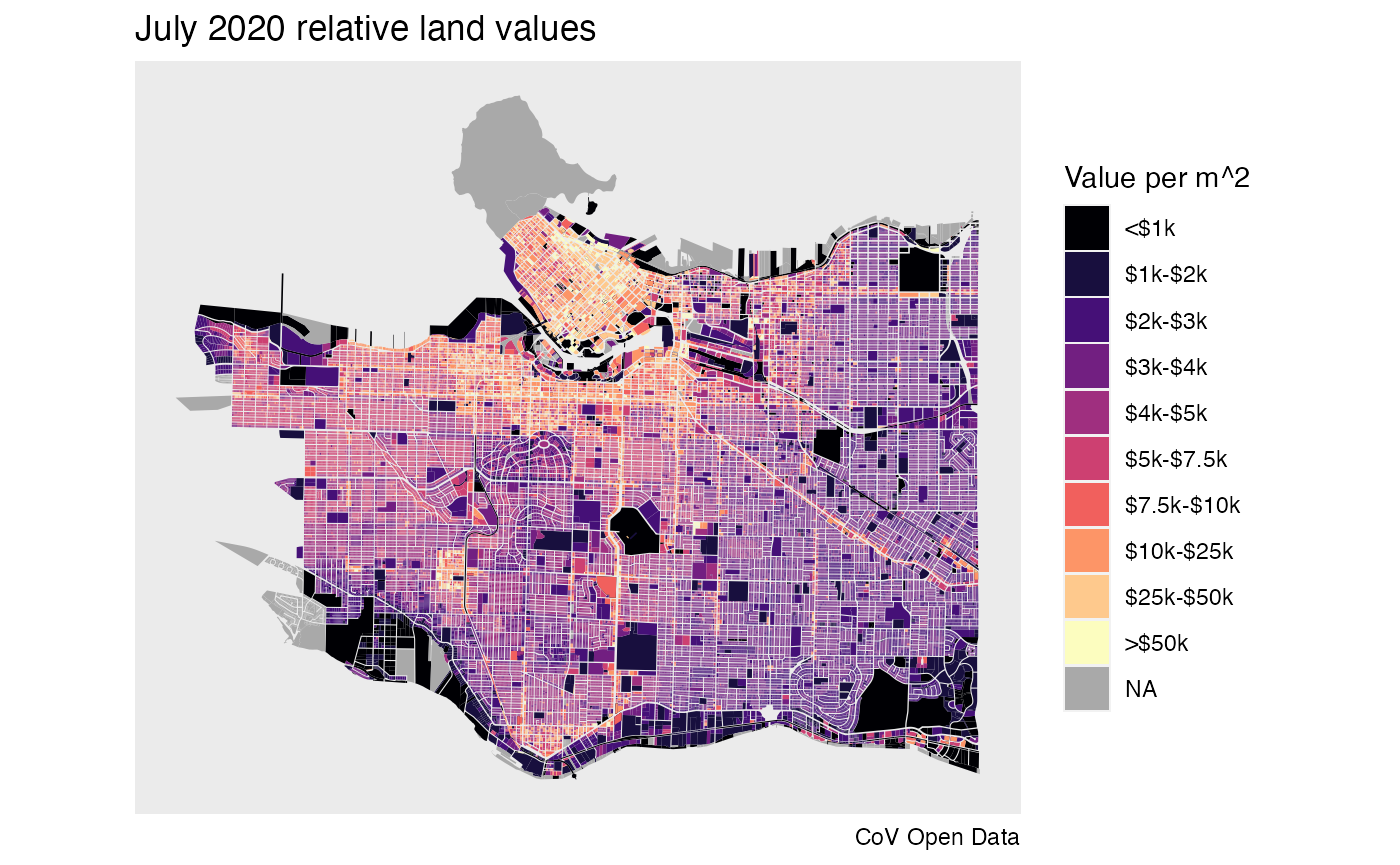
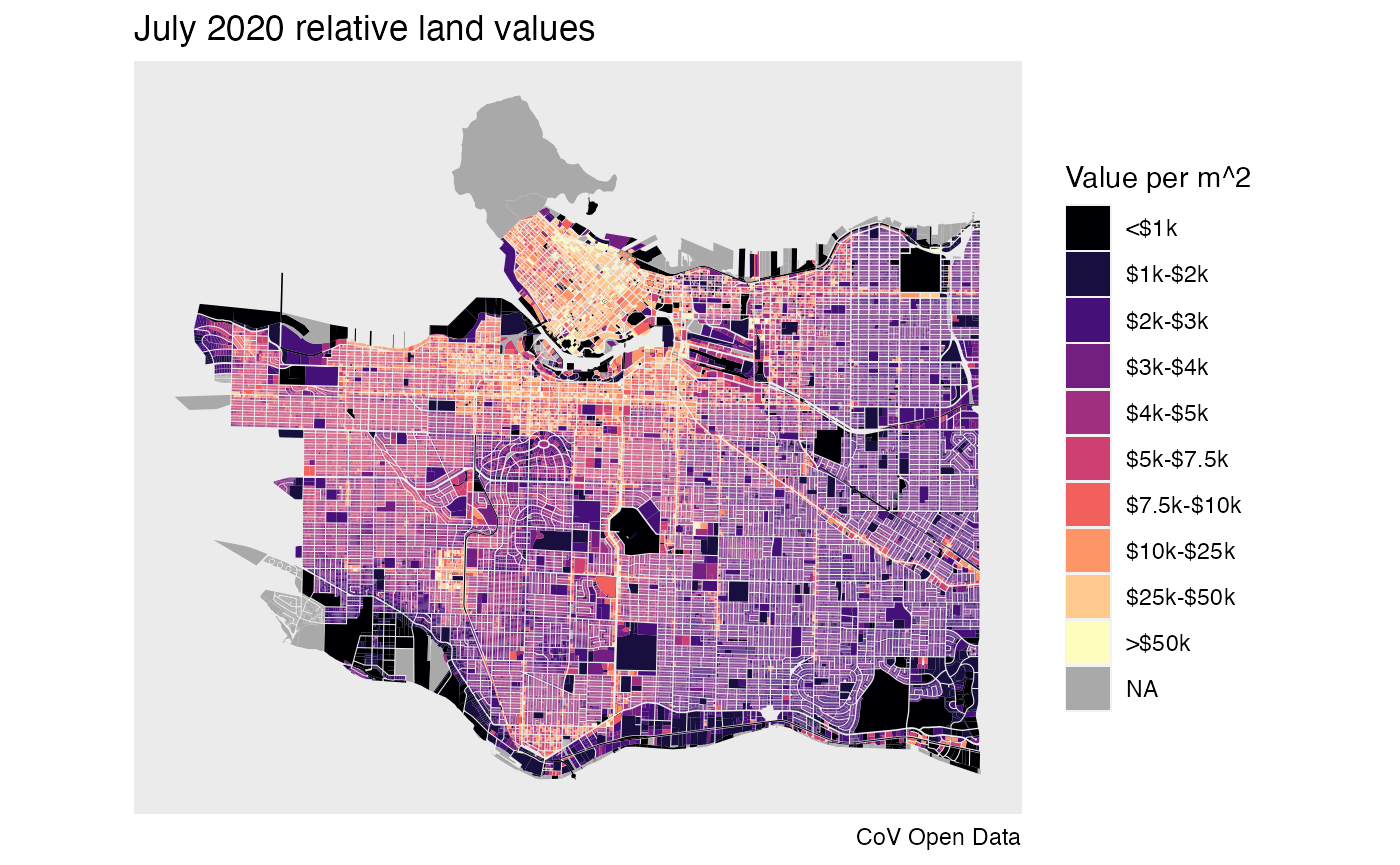
convert to non-spherical coordinartes in DEMO before doing spatial operations

diff --git a/docs/reference/get_cov_data.html b/docs/reference/get_cov_data.html
@@ -195,16 +195,16 @@ It accepts <a href='https://help.opendatasoft.com/apis/ods-search-v2/#where-clau
 </div><div class='output co'>#&gt; <span class='message'>Downloading data from CoV Open Data portal</span></div><div class='output co'>#&gt; <span style='color: #949494;'># A tibble: 7,010 x 8</span>
 #&gt;    block street  entrydate  bylaw section  status infractiontext           year 
 #&gt;    <span style='color: #949494; font-style: italic;'>&lt;int&gt;</span> <span style='color: #949494; font-style: italic;'>&lt;chr&gt;</span>   <span style='color: #949494; font-style: italic;'>&lt;date&gt;</span>     <span style='color: #949494; font-style: italic;'>&lt;int&gt;</span> <span style='color: #949494; font-style: italic;'>&lt;chr&gt;</span>    <span style='color: #949494; font-style: italic;'>&lt;chr&gt;</span>  <span style='color: #949494; font-style: italic;'>&lt;chr&gt;</span>                    <span style='color: #949494; font-style: italic;'>&lt;chr&gt;</span>
-#&gt; <span style='color: #BCBCBC;'> 1</span>  <span style='text-decoration: underline;'>1</span>100 ALBERN… 2018-11-01  <span style='text-decoration: underline;'>2</span>952 5(4)(a)… IS     PARK IN A METERED SPACE… 2018 
-#&gt; <span style='color: #BCBCBC;'> 2</span>  <span style='text-decoration: underline;'>1</span>100 ALBERN… 2018-11-27  <span style='text-decoration: underline;'>2</span>849 21.5     IS     STOP IN COMMERCIAL LOAD… 2018 
-#&gt; <span style='color: #BCBCBC;'> 3</span>  <span style='text-decoration: underline;'>1</span>100 ALBERN… 2018-01-28  <span style='text-decoration: underline;'>2</span>952 5(4)(a)… IS     PARK IN A METERED SPACE… 2018 
-#&gt; <span style='color: #BCBCBC;'> 4</span>  <span style='text-decoration: underline;'>1</span>100 ALBERN… 2018-08-21  <span style='text-decoration: underline;'>2</span>952 5(4)(a)… IS     PARK IN A METERED SPACE… 2018 
-#&gt; <span style='color: #BCBCBC;'> 5</span>  <span style='text-decoration: underline;'>1</span>100 ALBERN… 2018-11-03  <span style='text-decoration: underline;'>2</span>952 5(4)(a)… IS     PARK IN A METERED SPACE… 2018 
-#&gt; <span style='color: #BCBCBC;'> 6</span>  <span style='text-decoration: underline;'>1</span>100 ALBERN… 2018-11-03  <span style='text-decoration: underline;'>2</span>952 5(4)(a)… IS     PARK IN A METERED SPACE… 2018 
-#&gt; <span style='color: #BCBCBC;'> 7</span>  <span style='text-decoration: underline;'>1</span>100 ALBERN… 2018-11-06  <span style='text-decoration: underline;'>2</span>952 5(4)(a)… VA     PARK IN A METERED SPACE… 2018 
-#&gt; <span style='color: #BCBCBC;'> 8</span>  <span style='text-decoration: underline;'>1</span>100 ALBERN… 2018-11-06  <span style='text-decoration: underline;'>2</span>952 5(4)(a)… WR     PARK IN A METERED SPACE… 2018 
-#&gt; <span style='color: #BCBCBC;'> 9</span>  <span style='text-decoration: underline;'>1</span>100 ALBERN… 2018-11-06  <span style='text-decoration: underline;'>2</span>952 5(4)(a)… IS     PARK IN A METERED SPACE… 2018 
-#&gt; <span style='color: #BCBCBC;'>10</span>  <span style='text-decoration: underline;'>1</span>100 ALBERN… 2018-11-06  <span style='text-decoration: underline;'>2</span>952 5(4)(a)… IS     PARK IN A METERED SPACE… 2018 
+#&gt; <span style='color: #BCBCBC;'> 1</span>  <span style='text-decoration: underline;'>1</span>100 ALBERN… 2018-02-18  <span style='text-decoration: underline;'>2</span>952 5(4)(a)… IS     PARK IN A METERED SPACE… 2018 
+#&gt; <span style='color: #BCBCBC;'> 2</span>  <span style='text-decoration: underline;'>1</span>100 ALBERN… 2018-05-24  <span style='text-decoration: underline;'>2</span>952 5(4)(a)… IS     PARK IN A METERED SPACE… 2018 
+#&gt; <span style='color: #BCBCBC;'> 3</span>  <span style='text-decoration: underline;'>1</span>100 ALBERN… 2018-05-24  <span style='text-decoration: underline;'>2</span>952 5(4)(a)… IS     PARK IN A METERED SPACE… 2018 
+#&gt; <span style='color: #BCBCBC;'> 4</span>  <span style='text-decoration: underline;'>1</span>100 ALBERN… 2018-05-24  <span style='text-decoration: underline;'>2</span>952 5(4)(a)… IS     PARK IN A METERED SPACE… 2018 
+#&gt; <span style='color: #BCBCBC;'> 5</span>  <span style='text-decoration: underline;'>1</span>100 ALBERN… 2018-05-24  <span style='text-decoration: underline;'>2</span>952 5(4)(a)… IS     PARK IN A METERED SPACE… 2018 
+#&gt; <span style='color: #BCBCBC;'> 6</span>  <span style='text-decoration: underline;'>1</span>100 ALBERN… 2018-02-12  <span style='text-decoration: underline;'>2</span>952 5(4)(a)… IS     PARK IN A METERED SPACE… 2018 
+#&gt; <span style='color: #BCBCBC;'> 7</span>  <span style='text-decoration: underline;'>1</span>100 ALBERN… 2018-06-01  <span style='text-decoration: underline;'>2</span>952 5(4)(a)… IS     PARK IN A METERED SPACE… 2018 
+#&gt; <span style='color: #BCBCBC;'> 8</span>  <span style='text-decoration: underline;'>1</span>100 ALBERN… 2018-06-01  <span style='text-decoration: underline;'>2</span>952 5(4)(a)… IS     PARK IN A METERED SPACE… 2018 
+#&gt; <span style='color: #BCBCBC;'> 9</span>  <span style='text-decoration: underline;'>1</span>100 ALBERN… 2018-11-13  <span style='text-decoration: underline;'>2</span>952 5(4)(a)… IS     PARK IN A METERED SPACE… 2018 
+#&gt; <span style='color: #BCBCBC;'>10</span>  <span style='text-decoration: underline;'>1</span>100 ALBERN… 2018-02-25  <span style='text-decoration: underline;'>2</span>952 5(4)(a)… IS     PARK IN A METERED SPACE… 2018 
 #&gt; <span style='color: #949494;'># … with 7,000 more rows</span></div><div class='input'>
 </div></pre>
   </div>

diff --git a/docs/reference/list_cov_datasets.html b/docs/reference/list_cov_datasets.html
@@ -166,18 +166,18 @@
     <pre class="examples"><div class='input'><span class='co'># List and search available datasets</span>
 <span class='fu'>list_cov_datasets</span><span class='op'>(</span><span class='op'>)</span>
 </div><div class='output co'>#&gt; <span style='color: #949494;'># A tibble: 175 x 24</span>
-#&gt;    dataset_id  title  keyword  `search-term` datasetid `data-owner` `data-team` 
-#&gt;    <span style='color: #949494; font-style: italic;'>&lt;chr&gt;</span>       <span style='color: #949494; font-style: italic;'>&lt;chr&gt;</span>  <span style='color: #949494; font-style: italic;'>&lt;chr&gt;</span>    <span style='color: #949494; font-style: italic;'>&lt;chr&gt;</span>         <span style='color: #949494; font-style: italic;'>&lt;chr&gt;</span>     <span style='color: #949494; font-style: italic;'>&lt;chr&gt;</span>        <span style='color: #949494; font-style: italic;'>&lt;chr&gt;</span>       
-#&gt; <span style='color: #BCBCBC;'> 1</span> indicator-… Indic… dashboa… <span style='color: #BB0000;'>NA</span>            indicato… City of Van… Technology …
-#&gt; <span style='color: #BCBCBC;'> 2</span> indicator-… Indic… dashboa… <span style='color: #BB0000;'>NA</span>            indicato… City of Van… Technology …
-#&gt; <span style='color: #BCBCBC;'> 3</span> census-loc… Censu… census   neighborhood… census-l… Statistics … Planning, U…
-#&gt; <span style='color: #BCBCBC;'> 4</span> census-loc… Censu… census   neighborhood… census-l… Statistics … Planning, U…
-#&gt; <span style='color: #BCBCBC;'> 5</span> census-loc… Censu… census   neighborhood… census-l… Statistics … Planning, U…
-#&gt; <span style='color: #BCBCBC;'> 6</span> census-loc… Censu… census   2016, StatCa… census-l… Statistics … Planning, U…
-#&gt; <span style='color: #BCBCBC;'> 7</span> council-bu… Counc… <span style='color: #BB0000;'>NA</span>       elected, may… council-… City of Van… City Clerk'…
-#&gt; <span style='color: #BCBCBC;'> 8</span> anonymous-… Anony… <span style='color: #BB0000;'>NA</span>       election, vo… anonymou… City of Van… City Clerk'…
-#&gt; <span style='color: #BCBCBC;'> 9</span> olympic-tr… Olymp… 2010 Wi… &lt;div&gt;&lt;/div&gt;   olympic-… City of Van… Engineering…
-#&gt; <span style='color: #BCBCBC;'>10</span> 3-1-1-case… 3-1-1… <span style='color: #BB0000;'>NA</span>       311, contact… 3-1-1-ca… City of Van… Technology …
+#&gt;    dataset_id  title  keyword `search-term`  datasetid  `data-owner` `data-team`
+#&gt;    <span style='color: #949494; font-style: italic;'>&lt;chr&gt;</span>       <span style='color: #949494; font-style: italic;'>&lt;chr&gt;</span>  <span style='color: #949494; font-style: italic;'>&lt;chr&gt;</span>   <span style='color: #949494; font-style: italic;'>&lt;chr&gt;</span>          <span style='color: #949494; font-style: italic;'>&lt;chr&gt;</span>      <span style='color: #949494; font-style: italic;'>&lt;chr&gt;</span>        <span style='color: #949494; font-style: italic;'>&lt;chr&gt;</span>      
+#&gt; <span style='color: #BCBCBC;'> 1</span> bike-lane-… Bike … bicycle bicycle, bike… bike-lane… City of Van… Engineerin…
+#&gt; <span style='color: #BCBCBC;'> 2</span> municipal-… Munic… <span style='color: #BB0000;'>NA</span>      poll, Olympic… municipal… City of Van… City Clerk…
+#&gt; <span style='color: #BCBCBC;'> 3</span> census-loc… Censu… census  neighborhood,… census-lo… Statistics … Planning, …
+#&gt; <span style='color: #BCBCBC;'> 4</span> census-loc… Censu… census  neighborhood,… census-lo… Statistics … Planning, …
+#&gt; <span style='color: #BCBCBC;'> 5</span> census-loc… Censu… census  neighborhood,… census-lo… Statistics … Planning, …
+#&gt; <span style='color: #BCBCBC;'> 6</span> census-loc… Censu… census  2016, StatCan… census-lo… Statistics … Planning, …
+#&gt; <span style='color: #BCBCBC;'> 7</span> anonymous-… Anony… <span style='color: #BB0000;'>NA</span>      election, vot… anonymous… City of Van… City Clerk…
+#&gt; <span style='color: #BCBCBC;'> 8</span> 3-1-1-case… 3-1-1… <span style='color: #BB0000;'>NA</span>      311, contact … 3-1-1-cas… City of Van… Technology…
+#&gt; <span style='color: #BCBCBC;'> 9</span> elevation-… Eleva… <span style='color: #BB0000;'>NA</span>      digital        elevation… City of Van… <span style='color: #BB0000;'>NA</span>         
+#&gt; <span style='color: #BCBCBC;'>10</span> service-me… Servi… budget  indicators, k… service-m… City of Van… Finance, R…
 #&gt; <span style='color: #949494;'># … with 165 more rows, and 17 more variables: change-log &lt;chr&gt;,</span>
 #&gt; <span style='color: #949494;'>#   description &lt;chr&gt;, theme &lt;chr&gt;, license &lt;chr&gt;, license_url &lt;chr&gt;,</span>
 #&gt; <span style='color: #949494;'>#   timezone &lt;chr&gt;, modified &lt;chr&gt;, modified_updates_on_metadata_change &lt;chr&gt;,</span>

diff --git a/docs/articles/Demo.html b/docs/articles/Demo.html
@@ -119,8 +119,8 @@
 <span class="co">#&gt;   dataset_id                    title                        </span>
 <span class="co">#&gt;   &lt;chr&gt;                         &lt;chr&gt;                        </span>
 <span class="co">#&gt; 1 property-tax-report-2016-2019 Property tax report 2016-2019</span>
-<span class="co">#&gt; 2 property-tax-report-2011-2015 Property tax report 2011-2015</span>
-<span class="co">#&gt; 3 property-tax-report           Property tax report          </span>
+<span class="co">#&gt; 2 property-tax-report           Property tax report          </span>
+<span class="co">#&gt; 3 property-tax-report-2011-2015 Property tax report 2011-2015</span>
 <span class="co">#&gt; 4 property-tax-report-2006-2010 Property tax report 2006-2010</span></code></pre></div>
 </div>
 <div id="get-metadata-for-tax-report" class="section level3">
@@ -177,7 +177,8 @@
 <span class="co">#&gt; Downloading data from CoV Open Data portal</span>
 <span class="co">#&gt; Warning in mask$eval_all_mutate(quo): NAs introduced by coercion to integer</span>
 <span class="co">#&gt; range</span>
-<span class="va">property_polygons</span> <span class="op">&lt;-</span> <span class="fu"><a href="../reference/get_cov_data.html">get_cov_data</a></span><span class="op">(</span>dataset_id<span class="op">=</span><span class="st">"property-parcel-polygons"</span>,format <span class="op">=</span> <span class="st">"geojson"</span><span class="op">)</span>
+<span class="va">property_polygons</span> <span class="op">&lt;-</span> <span class="fu"><a href="../reference/get_cov_data.html">get_cov_data</a></span><span class="op">(</span>dataset_id<span class="op">=</span><span class="st">"property-parcel-polygons"</span>,format <span class="op">=</span> <span class="st">"geojson"</span><span class="op">)</span> <span class="op">%&gt;%</span>
+  <span class="fu">sf</span><span class="fu">::</span><span class="fu"><a href="https://r-spatial.github.io/sf/reference/st_transform.html">st_transform</a></span><span class="op">(</span><span class="fl">26910</span><span class="op">)</span>
 <span class="co">#&gt; Downloading data from CoV Open Data portal</span></code></pre></div>
 </div>
 <div id="compute-and-plot-relative-land-values" class="section level3">
@@ -190,7 +191,6 @@
   <span class="fu"><a href="https://dplyr.tidyverse.org/reference/mutate.html">mutate</a></span><span class="op">(</span>rlvd<span class="op">=</span><span class="fu"><a href="https://rdrr.io/r/base/cut.html">cut</a></span><span class="op">(</span><span class="va">rlv</span>,breaks<span class="op">=</span><span class="fu"><a href="https://rdrr.io/r/base/c.html">c</a></span><span class="op">(</span><span class="op">-</span><span class="cn">Inf</span>,<span class="fl">1000</span>,<span class="fl">2000</span>,<span class="fl">3000</span>,<span class="fl">4000</span>,<span class="fl">5000</span>,<span class="fl">7500</span>,<span class="fl">10000</span>,<span class="fl">25000</span>,<span class="fl">50000</span>,<span class="cn">Inf</span><span class="op">)</span>,
                   labels<span class="op">=</span><span class="fu"><a href="https://rdrr.io/r/base/c.html">c</a></span><span class="op">(</span><span class="st">"&lt;$1k"</span>,<span class="st">"$1k-$2k"</span>,<span class="st">"$2k-$3k"</span>,<span class="st">"$3k-$4k"</span>,<span class="st">"$4k-$5k"</span>,<span class="st">"$5k-$7.5k"</span>,<span class="st">"$7.5k-$10k"</span>,<span class="st">"$10k-$25k"</span>,<span class="st">"$25k-$50k"</span>,<span class="st">"&gt;$50k"</span><span class="op">)</span>,
                   ordered_result <span class="op">=</span> <span class="cn">TRUE</span><span class="op">)</span><span class="op">)</span>
-<span class="co">#&gt; Linking to GEOS 3.8.1, GDAL 3.2.1, PROJ 7.2.1</span>
 <span class="fu"><a href="https://ggplot2.tidyverse.org/reference/ggplot.html">ggplot</a></span><span class="op">(</span><span class="va">plot_data</span><span class="op">)</span> <span class="op">+</span>
   <span class="fu"><a href="https://ggplot2.tidyverse.org/reference/ggsf.html">geom_sf</a></span><span class="op">(</span><span class="fu"><a href="https://ggplot2.tidyverse.org/reference/aes.html">aes</a></span><span class="op">(</span>fill<span class="op">=</span><span class="va">rlvd</span><span class="op">)</span>,color<span class="op">=</span><span class="cn">NA</span><span class="op">)</span> <span class="op">+</span>
   <span class="fu"><a href="https://ggplot2.tidyverse.org/reference/scale_viridis.html">scale_fill_viridis_d</a></span><span class="op">(</span>option<span class="op">=</span><span class="st">"magma"</span>,na.value<span class="op">=</span><span class="st">"darkgrey"</span><span class="op">)</span> <span class="op">+</span>
